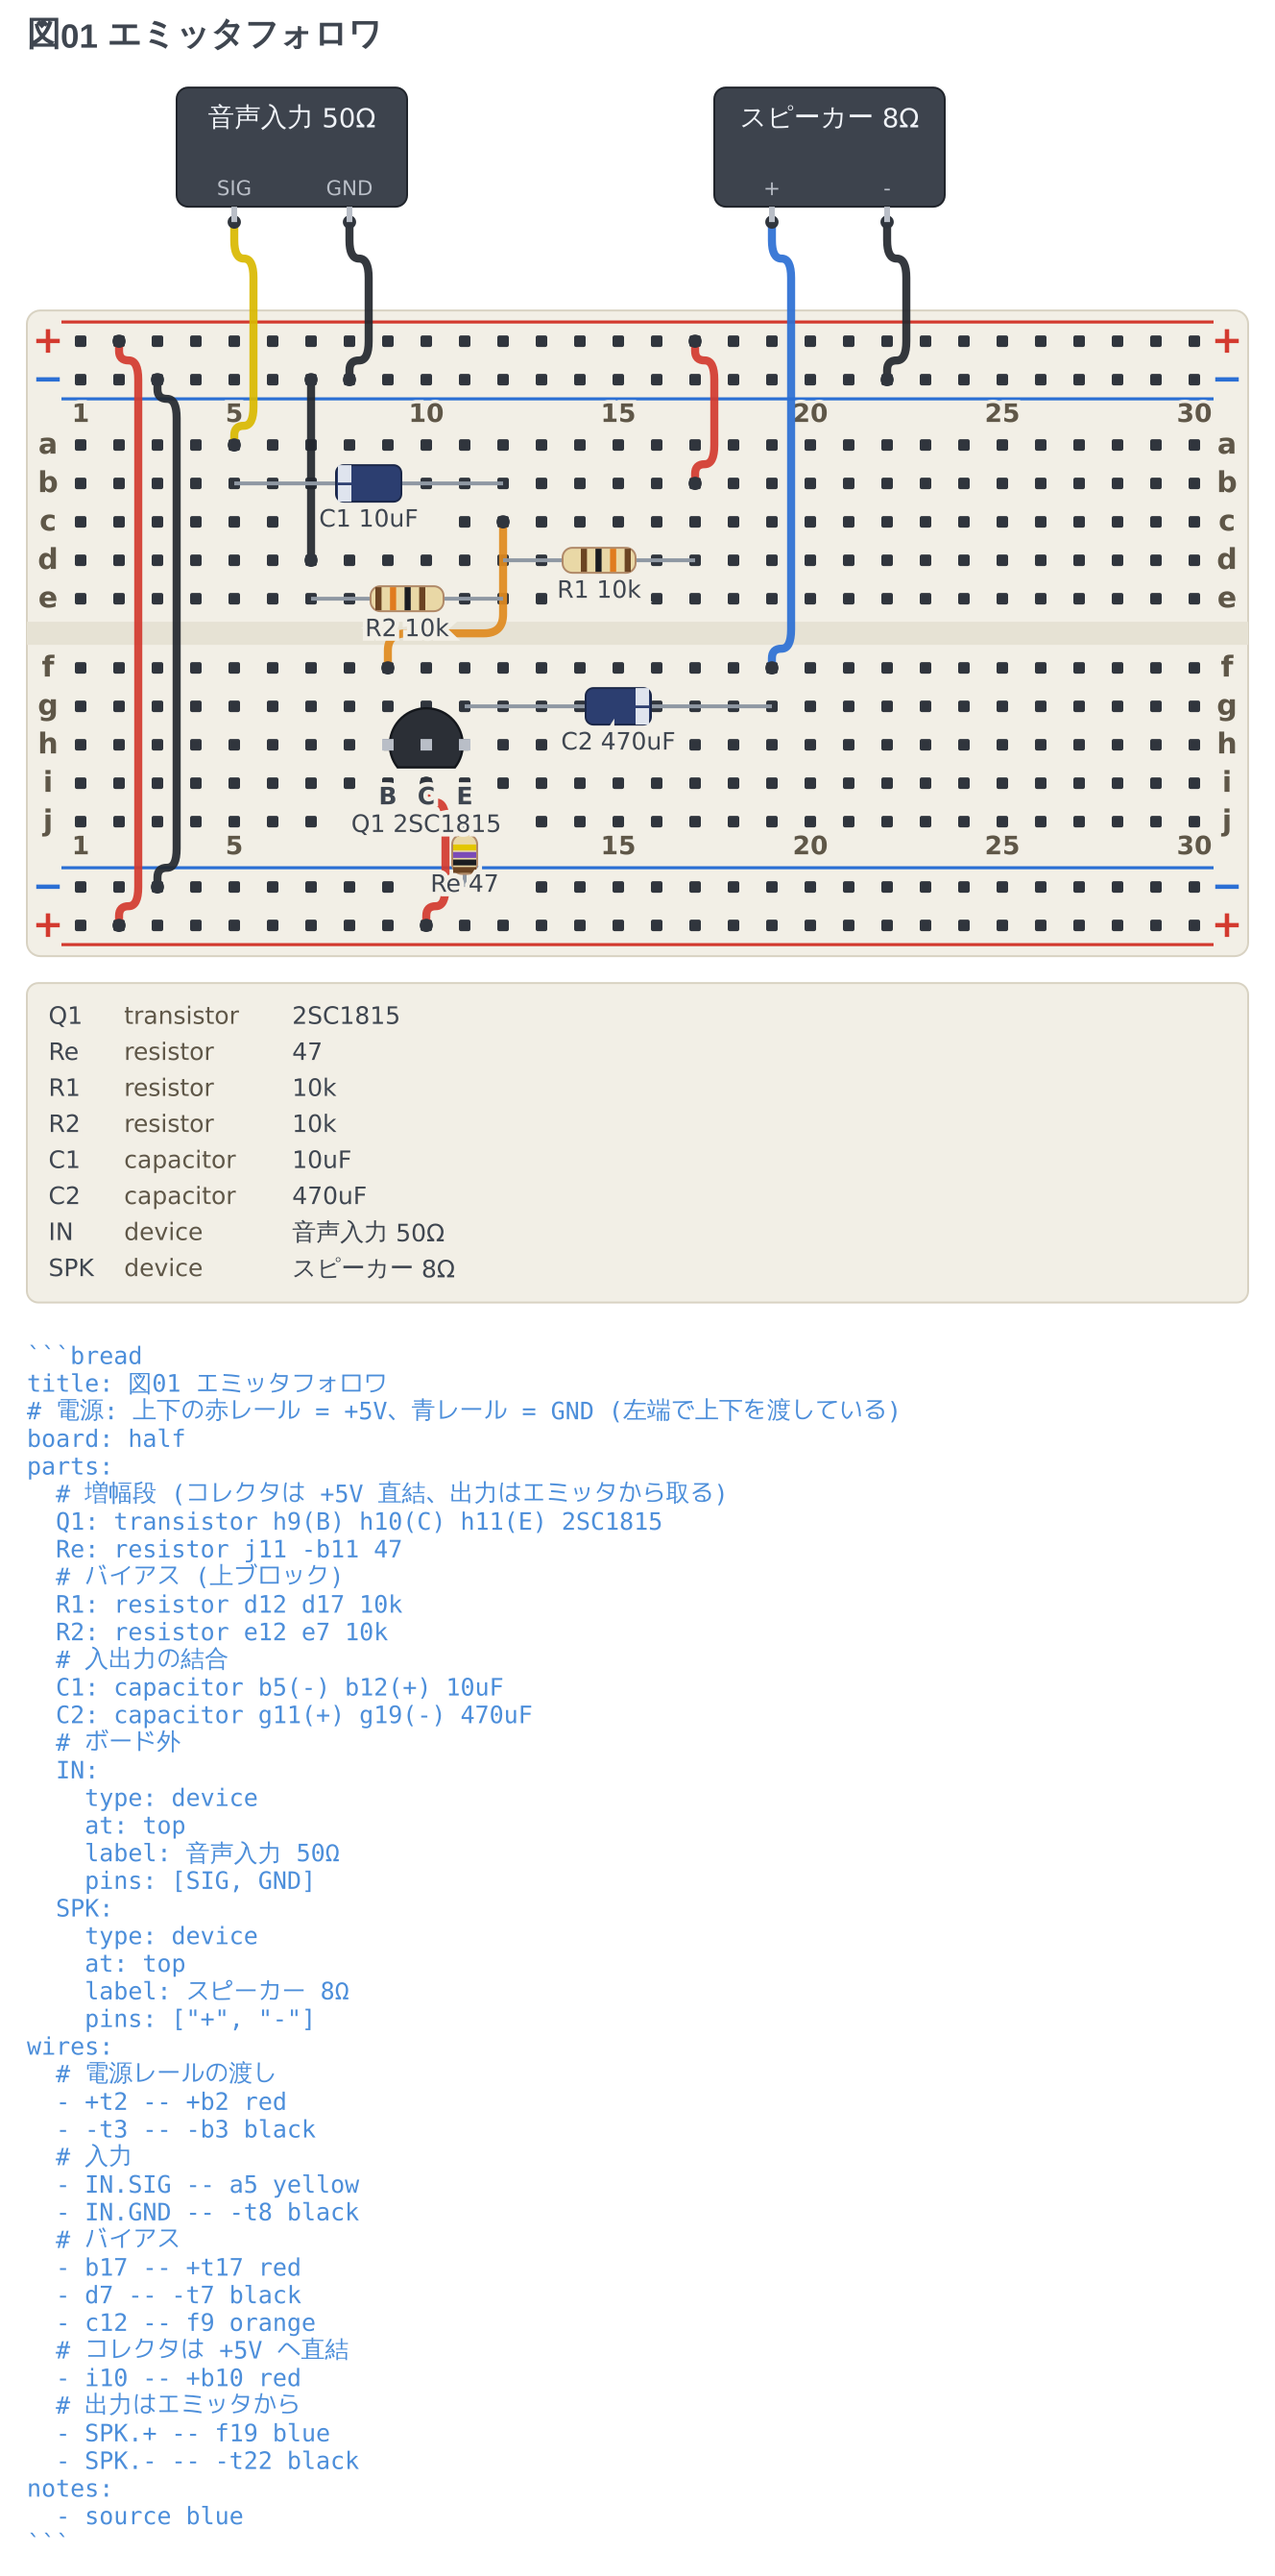
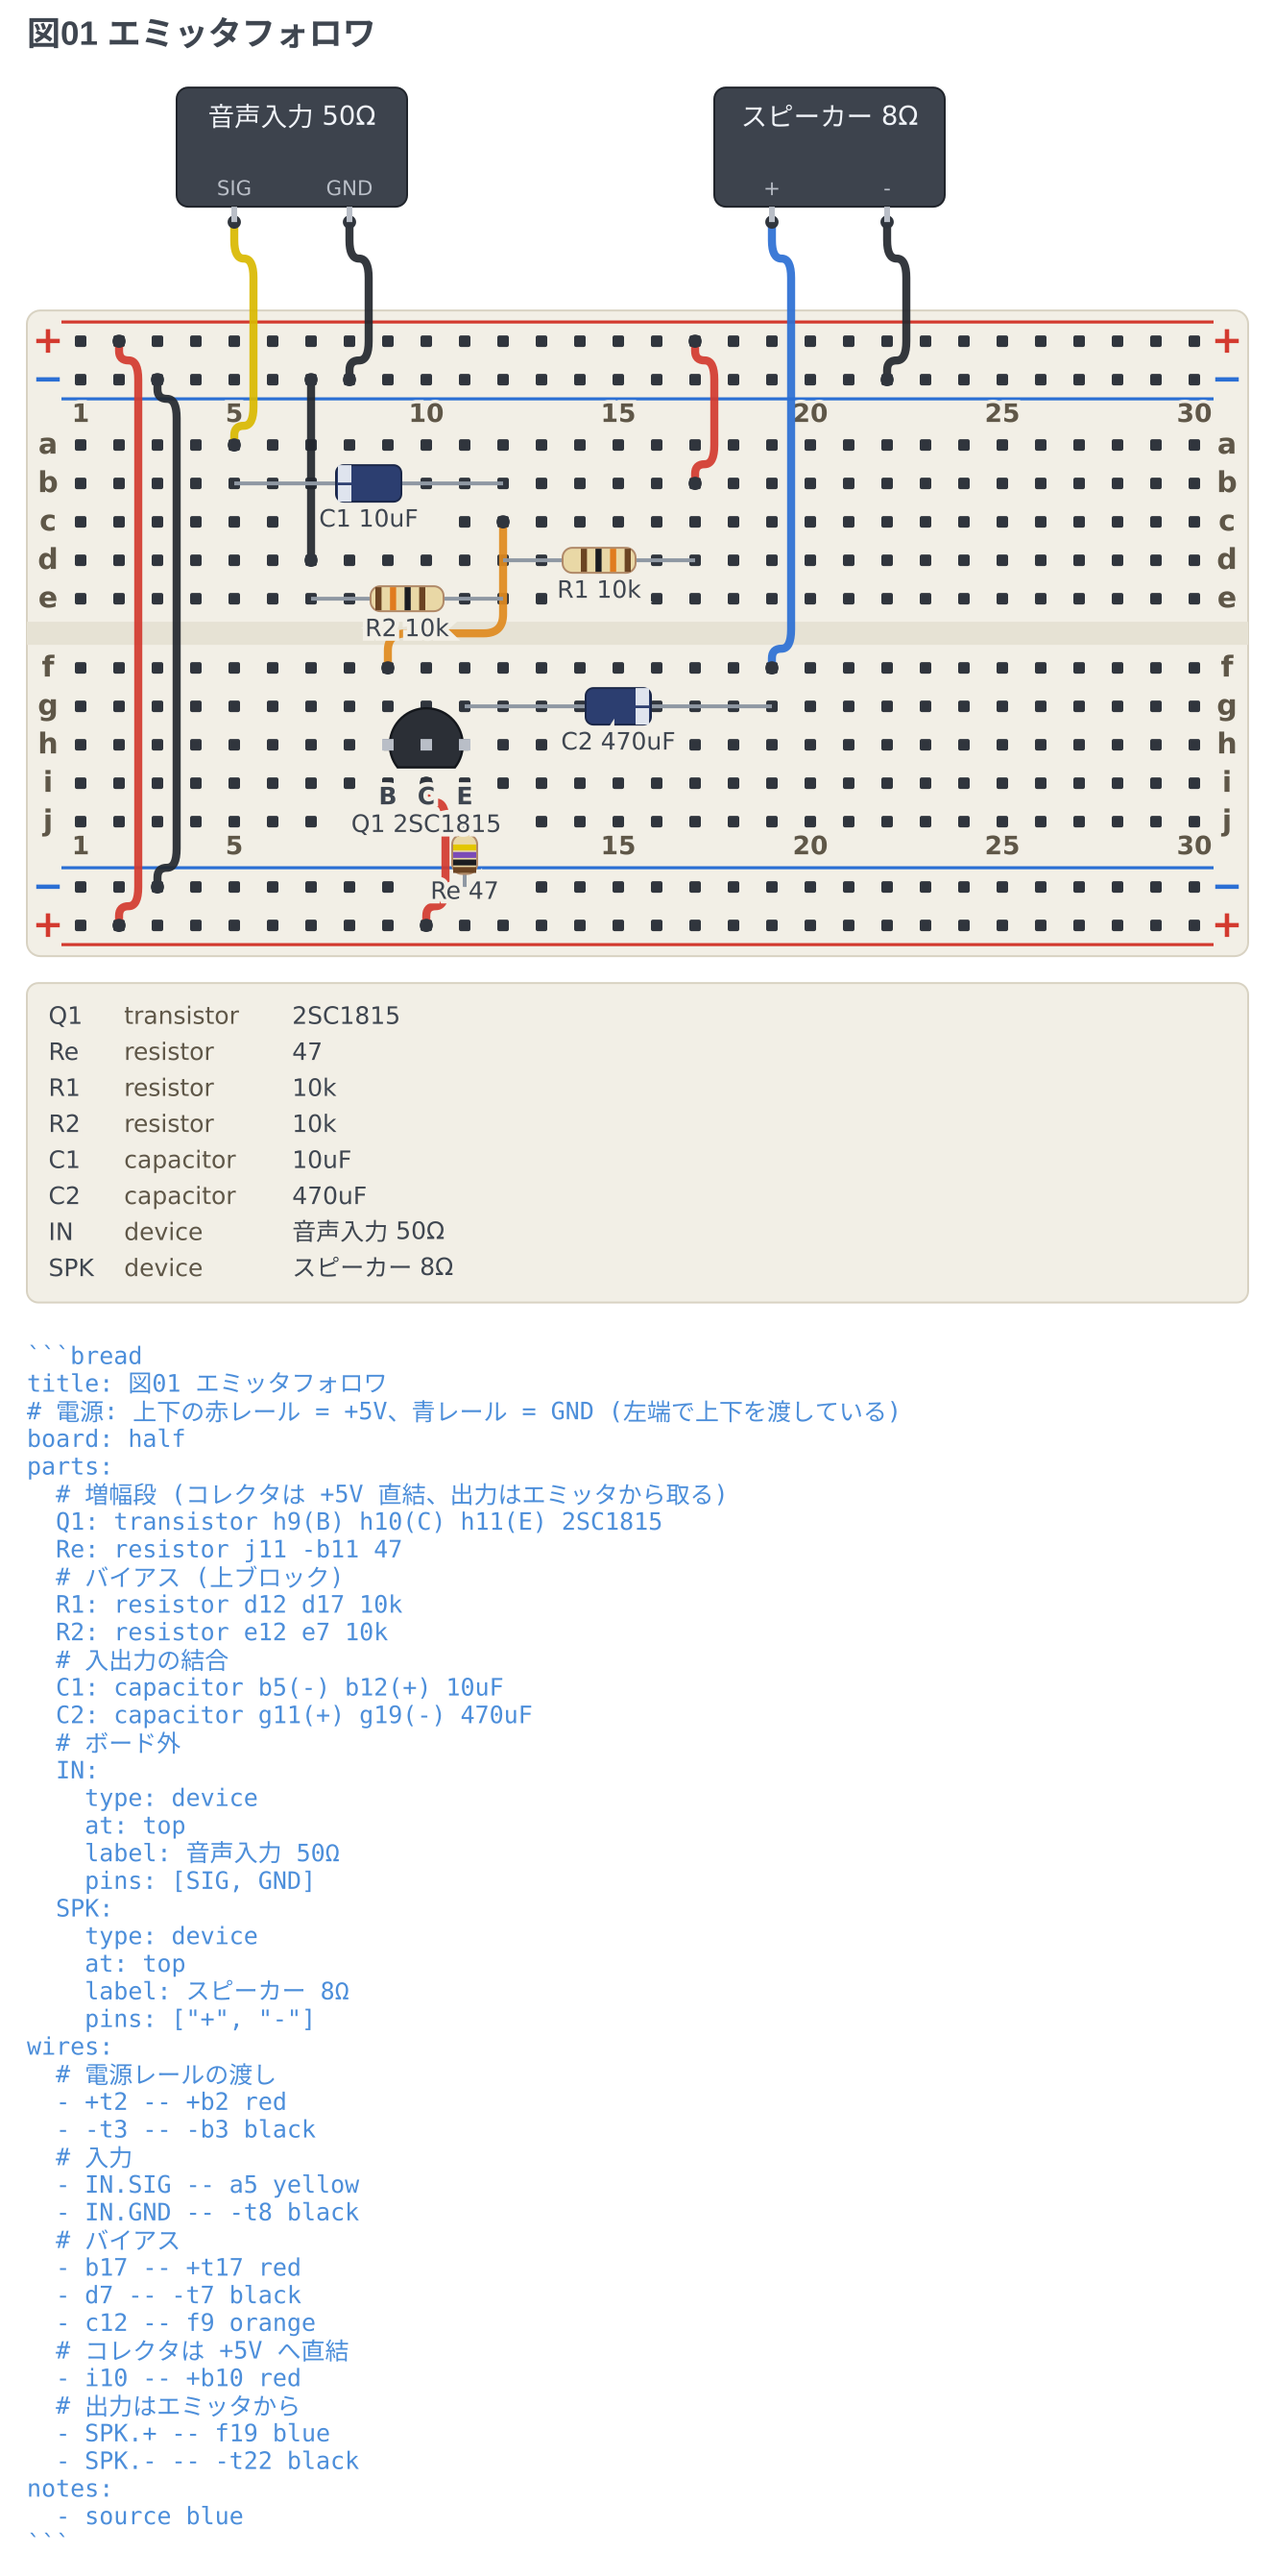
fix(breadboard): 縦に立てた部品の名札が胴の下端に食い込まないようにする
- 名札の高さを胴の「厚み」だけで測っていて、縦に立てた胴が下へ伸びる
  「長さ」を見ていなかった。a〜e 行に立てた抵抗では名札が一番下の色の帯に
  乗り、レールと a 行の間の抵抗では縁取りが胴の下端を削っていた。
  胴の長さと厚みを足の傾きで縦に射影して測る (横の部品は今の値のまま)
- 名札を下げると、レールから c 行へ立てた胴の下から列番号の欠片が覗いた。
  縦に立てた 2 本足の胴が乗る所も列番号を伏せる

🤖 Generated with [Claude Code](https://claude.com/claude-code)

diff --git a/packages/breadboard-fence/src/core/render/partCommon.ts b/packages/breadboard-fence/src/core/render/partCommon.ts
@@ -1,6 +1,6 @@
 import { bodySize } from 'fence-kit';
 import type { Layout } from '../model/layout.ts';
-import type { PlacedPart, Point } from '../types.ts';
+import type { PlacedPart, Point, Rect } from '../types.ts';
 import { TEXT_HALO_WIDTH, num, svgText } from './svg.ts';
 import { fit } from './textFit.ts';
 import type { TextOptions } from './svg.ts';
@@ -78,6 +78,48 @@ function bodyHeightOf(part: PlacedPart, layout: Layout): number {
   return bodySize(part, Math.hypot(to.x - from.x, to.y - from.y)).height;
 }
 
+/**
+ * 2 本足の胴が図の上で占める外枠 (傾いた胴を囲む縦横の矩形)。板の印字を伏せるのと、
+ * 名札の高さを決めるのにも使う。2 本足でなければ `null`。
+ */
+function twoLeadBodyRectOf(part: PlacedPart, layout: Layout): Rect | null {
+  const [first, second] = part.pins;
+  if (part.kind !== 'two-lead' || !first?.address || !second?.address) return null;
+  const from = layout.point(first.address);
+  const to = layout.point(second.address);
+  const span = Math.hypot(to.x - from.x, to.y - from.y);
+  if (span === 0) return null;
+  const size = bodySize(part, span);
+  const sin = Math.abs(to.y - from.y) / span;
+  const cos = Math.abs(to.x - from.x) / span;
+  const width = size.width * cos + size.height * sin;
+  const height = size.width * sin + size.height * cos;
+  const centre = midpoint(from, to);
+  return { x: centre.x - width / 2, y: centre.y - height / 2, width, height };
+}
+
+/**
+ * 縦に立てた (横より縦に長く傾いた) 2 本足の胴の外枠。**列番号を伏せるのはこれだけ** —
+ * 横に寝た胴は穴の行に乗るので番号の行に届かない。背の高い横の胴 (電解コンデンサ) は
+ * 番号の判定枠 (字の下に少し余白を持つ) にわずかに触れるが、見た目は離れていて伏せる理由がない。
+ */
+export function uprightBodyRectOf(part: PlacedPart, layout: Layout): Rect | null {
+  const [first, second] = part.pins;
+  if (!first?.address || !second?.address) return null;
+  const from = layout.point(first.address);
+  const to = layout.point(second.address);
+  return Math.abs(to.y - from.y) > Math.abs(to.x - from.x) ? twoLeadBodyRectOf(part, layout) : null;
+}
+
+/**
+ * 胴が中心から**下へ**どれだけ伸びるか。横 (傾き 0) なら厚みの半分で今までと同じ値、
+ * **縦に立てれば長さの半分** — 厚みだけで測ると、立てた抵抗の名札が下の色の帯に乗る。
+ */
+function bodyDropOf(part: PlacedPart, layout: Layout): number {
+  const rect = twoLeadBodyRectOf(part, layout);
+  return rect === null ? bodyHeightOf(part, layout) / 2 : rect.height / 2;
+}
+
 /** 胴と名札のあいだに空ける隙間。 */
 export const CAPTION_CLEAR = 4;
 
@@ -89,19 +131,19 @@ const capHeight = (theme: RenderTheme): number => theme.metrics.textSize * 0.72;
  * ブロックで名前の出る側が変わり、同じ図の中で揃わなかった
  * (実機で「すべての部品名は部品の下側に表示する」)。
  *
- * **胴の高さから測る。** 決め打ちの距離だと、背の高い胴 (円板のバリスタや
+ * **胴の下端から測る。** 決め打ちの距離だと、背の高い胴 (円板のバリスタや
  * CdS、箱のヒューズ・電池・太陽電池・スイッチ、砲弾のダイオード) に字が乗る
  * (実機で「文字と図形が被らないように文字をずらす」と 18 種類を並べて言われた)。
  * **姿もそのまま効く** — 胴の寸法は `bodySize` が姿ごとに持っているので、
  * `capacitor/electrolytic` のように姿で背の伸びる部品も一緒に逃げる。
+ * 縦に立てた部品は胴の長さが下へ伸びるので、それも数える (`bodyDropOf`)。
  *
  * 下に置くときは**字の高さも足す** — 基準線は字の下端なので、隙間だけ足すと
  * 字の頭が胴に食い込む。
  */
 export function labelYOf(part: PlacedPart, center: Point, layout: Layout, theme: RenderTheme): number {
   if (OVER_AXIS_TYPES.has(part.type)) return center.y + bodyHeightOf(part, layout);
-  const half = bodyHeightOf(part, layout) / 2;
-  return center.y + Math.max(CAPTION_DROP, half + CAPTION_CLEAR + capHeight(theme));
+  return center.y + Math.max(CAPTION_DROP, bodyDropOf(part, layout) + CAPTION_CLEAR + capHeight(theme));
 }
 
 /** 板と穴の上に載る部品の字。縁取りを敷いて、下の穴に食われないようにする。 */

diff --git a/packages/breadboard-fence/src/core/render/parts.test.ts b/packages/breadboard-fence/src/core/render/parts.test.ts
@@ -189,6 +189,47 @@ describe('名札は胴の外', () => {
 });
 
 
+/**
+ * 縦に立てた部品の名札も胴の外。**胴は足の向きに長い**ので、立てると
+ * 中心から下へ「長さの半分」伸びる。厚みだけで測っていたころは、a〜e 行に立てた
+ * 抵抗の名札が一番下の色の帯に乗り、レールと a 行の間の抵抗 (教科書の 30 dB
+ * パッドの図) では縁取りが胴の下端を削っていた。
+ */
+describe('縦に立てた部品の名札も胴の外', () => {
+  const labelBaselineOf = (svg: string, id: string): number =>
+    Number(new RegExp(`<text x="[\\d.]+" y="([\\d.]+)"[^>]*>${id}`).exec(svg)?.[1] ?? NaN);
+  const capOf = (): number => theme.metrics.textSize * 0.72;
+
+  const cases: readonly string[] = [
+    'R1: resistor a5 e5 10k', 'R2: resistor a5 -t5 3.3', 'R3: resistor d5 h5 47',
+    'R4: resistor/half a5 e5', 'C1: capacitor/electrolytic a5 e5', 'D1: diode a5 e5',
+  ];
+
+  for (const line of cases) {
+    test(`keeps the label below the bottom of an upright body: ${line.split(':')[1]?.trim()}`, () => {
+      const part = place(line);
+      const from = layout.point(part.pins[0]!.address!);
+      const to = layout.point(part.pins[1]!.address!);
+      const span = Math.hypot(to.x - from.x, to.y - from.y);
+      const bottom = (from.y + to.y) / 2 + bodySize(part, span).width / 2;
+      const baseline = labelBaselineOf(renderPart(part, layout, theme), part.id);
+
+      expect(baseline - capOf()).toBeGreaterThan(bottom);
+    });
+  }
+
+  test('leaves a horizontal part where it was', () => {
+    // 横は厚みで測る今までの式のまま。横の図が 1 px も動かないこと。
+    const part = place('R1: resistor b5 b10 1k');
+    const centre = layout.point(part.pins[0]!.address!);
+    const baseline = labelBaselineOf(renderPart(part, layout, theme), part.id);
+
+    const half = bodySize(part, 5 * layout.pitch).height / 2;
+
+    expect(baseline).toBeCloseTo(centre.y + Math.max(18, half + 4 + capOf()), 5);
+  });
+});
+
 describe('マイコンボードの名前', () => {
   test('keeps the name below the board, clear of the pin names written inside it', () => {
     // 基板の中に置いていたころは、長い足の名前 (`ADC_VREF 35`) と食い合っていた

diff --git a/packages/breadboard-fence/src/core/render/readability.test.ts b/packages/breadboard-fence/src/core/render/readability.test.ts
@@ -88,6 +88,25 @@ describe('part captions sit on a clean patch of board', () => {
   });
 });
 
+describe('the board printing stays out from under an upright part', () => {
+  test('a column number is not printed under the body of a part standing across it', () => {
+    // レールから c 行へ立てた抵抗の胴は、列番号の印字の上を通る。名札で伏せていた
+    // ころは名札の帯が番号も覆っていたが、名札を胴の下端の下へ出すと、胴の下から
+    // 番号の欠片 (`10`) が覗いた (教科書のマイクのスペクトルの図の R2)。
+    const { svg } = fence('parts:', '  R2: resistor -t10 c10 100k');
+    const printed = [...svg.matchAll(/<text x="([\d.]+)" y="([\d.]+)"[^>]*>10<\/text>/g)]
+      .map((match) => Number(match[2]));
+
+    // 下の番号 (j 行の下) だけが残り、上の番号は伏せる。
+    expect(printed).toHaveLength(1);
+  });
+
+  test('a horizontal part leaves the column numbers alone', () => {
+    const { svg } = fence('parts:', '  R1: resistor a8 a12 1k');
+    expect([...svg.matchAll(/>10<\/text>/g)]).toHaveLength(2);
+  });
+});
+
 describe('parts are drawn where they were written unless they cannot be', () => {
   test('a part slid off a wire end stays silent (the documented way of writing)', () => {
     const { notices } = fence('parts:', '  R1: resistor c3 c8 470', 'wires:', '  - c8 -- c12 orange');

diff --git a/packages/breadboard-fence/src/core/render/document.ts b/packages/breadboard-fence/src/core/render/document.ts
@@ -8,7 +8,7 @@ import { noteBands, notesBottom, outsideNotesHeight, renderNotes, renderOutsideN
 import type { ResolvedNote } from './notes.ts';
 import { renderHits } from './hits.ts';
 import { renderPart } from './parts.ts';
-import { CAPTION_CLASS } from './partCommon.ts';
+import { CAPTION_CLASS, uprightBodyRectOf } from './partCommon.ts';
 import { partsListHeight, renderPartsList } from './partsList.ts';
 import { element, num, roundedPath, svgText } from './svg.ts';
 import type { RenderStyle } from './theme.ts';
@@ -95,9 +95,13 @@ export function renderDocument(input: DocumentInput): string {
     input.parts, layout, theme,
     noteBands(input.notes, theme, input.sourceLines ?? []),
   );
-  // 板の印字 (列番号) を伏せる帯。名札が乗る所だけ。
+  // 板の印字 (列番号) を伏せる帯。名札と、縦に立てた 2 本足の胴が乗る所
+  // (縦に立てた胴は番号の行を横切り、胴の下から番号の欠片が覗く)。
   const covered = input.parts
-    .map((part) => captionBandOf(part, layout, theme, drops.get(part.id) ?? 0))
+    .flatMap((part) => [
+      captionBandOf(part, layout, theme, drops.get(part.id) ?? 0),
+      uprightBodyRectOf(part, layout),
+    ])
     .filter((band): band is Rect => band !== null);
   // 穴を伏せる帯。名札の字の下だけ (`captionTextBandOf`)。
   const lettered = input.parts

diff --git a/packages/breadboard-fence/CHANGELOG.md b/packages/breadboard-fence/CHANGELOG.md
@@ -3,6 +3,20 @@
 形式は [Keep a Changelog](https://keepachangelog.com/ja/1.1.0/)、
 バージョン番号は [Semantic Versioning](https://semver.org/lang/ja/) に従う。
 
+## [Unreleased]
+
+### Fixed
+
+- **縦に立てた部品の名札が胴の下端に食い込んでいた。** 名札の位置を胴の「厚み」から
+  測っていて、縦に立てた胴が下へ伸びる「長さ」を見ていなかった。a〜e 行に立てた抵抗では
+  名札が一番下の色の帯に乗り、レールと a 行の間に立てた抵抗では縁取りが胴の下端を削っていた。
+  胴の長さと厚みを足の傾きで縦に射影して測る。**横に置いた部品の名札は 1 px も動かない。**
+  名札は今までどおり胴の下 (0.7.0 の決め)。
+- **縦に立てた胴の下から列番号の欠片が覗くことがあった。** 列番号は名札が乗る所だけ
+  伏せていたので、名札を胴の下へ出すと、レールから c 行へ立てた抵抗の胴の下に `10` が
+  透けた。縦に立てた 2 本足の胴が乗る所も伏せる。名札の帯から外れて、胴の隣の番号が
+  印字されるようになる所がある。
+
 ## [0.13.1] - 2026-09-26
 
 実体配線図が読みにくくなる形を直した (教科書の実体配線図 192 枚を 1 枚ずつ見て分けた症状)。
